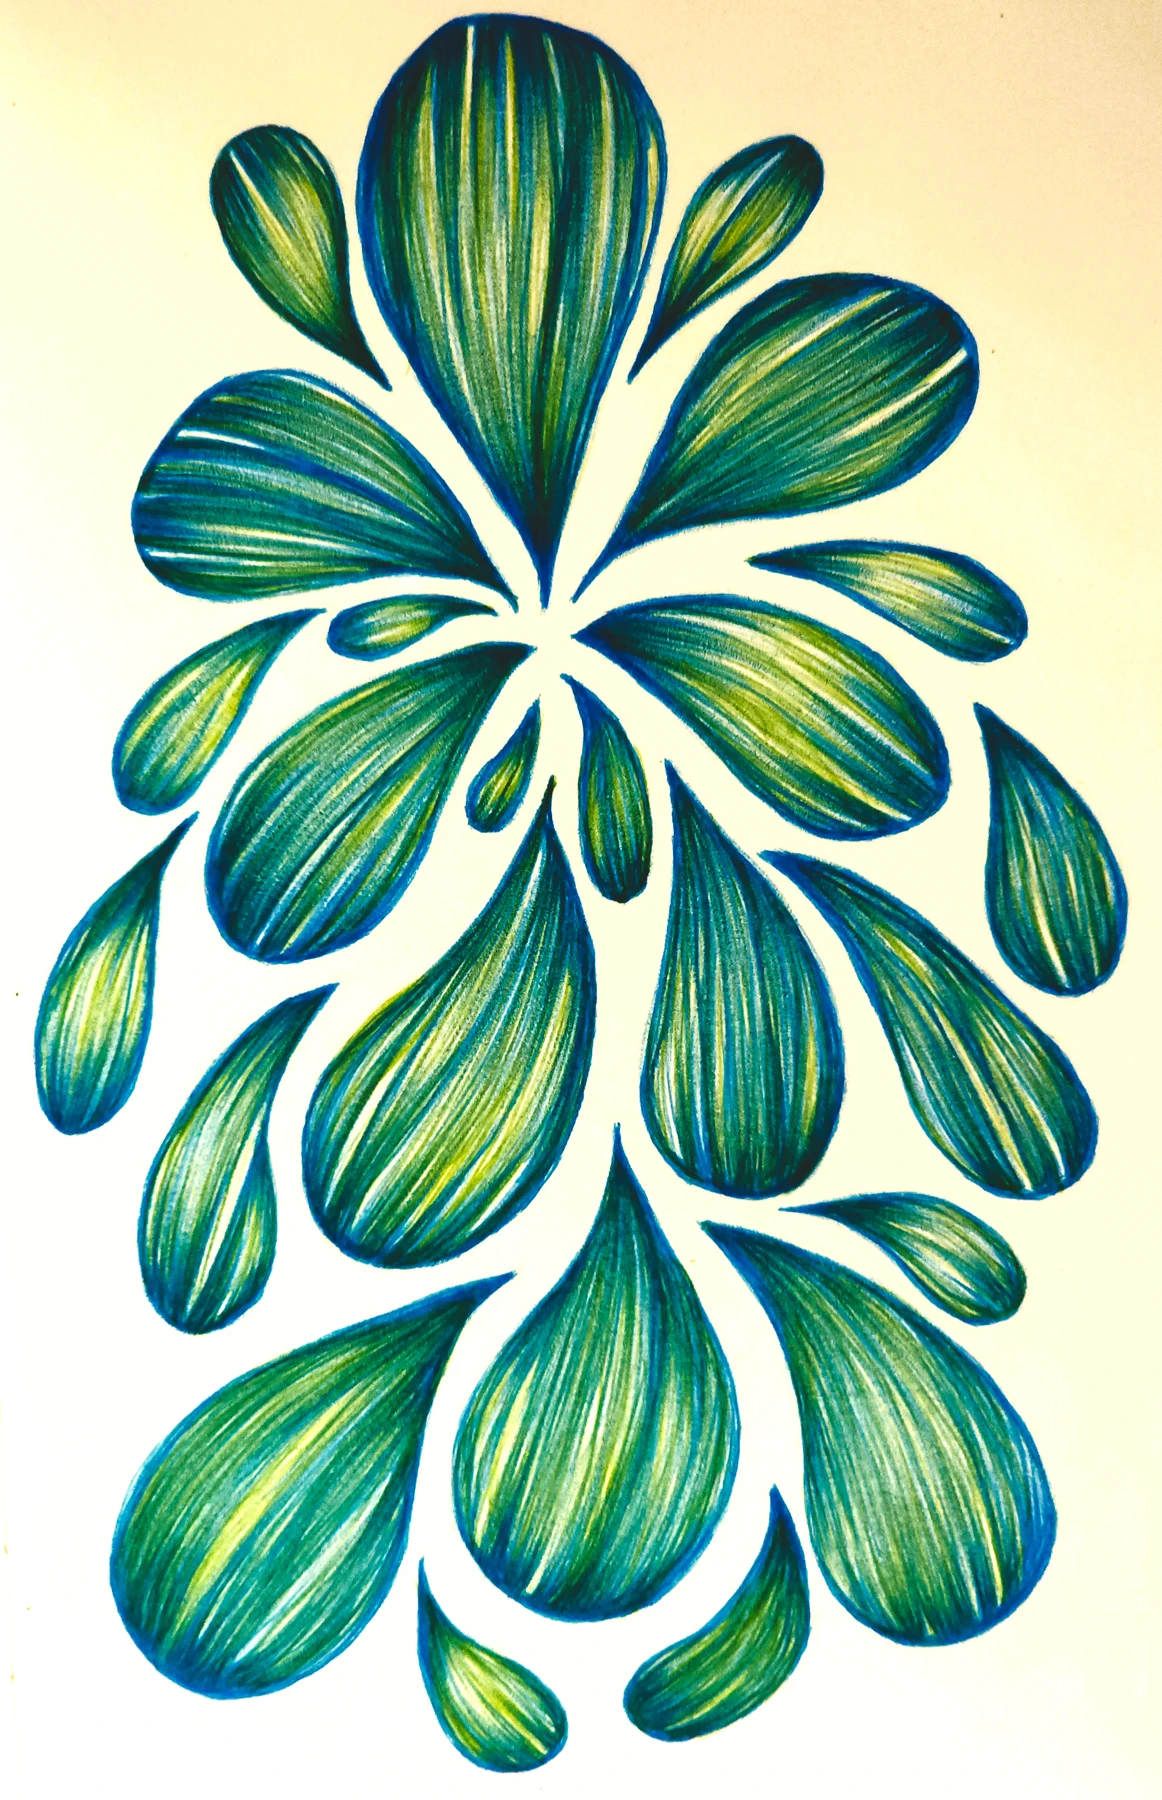
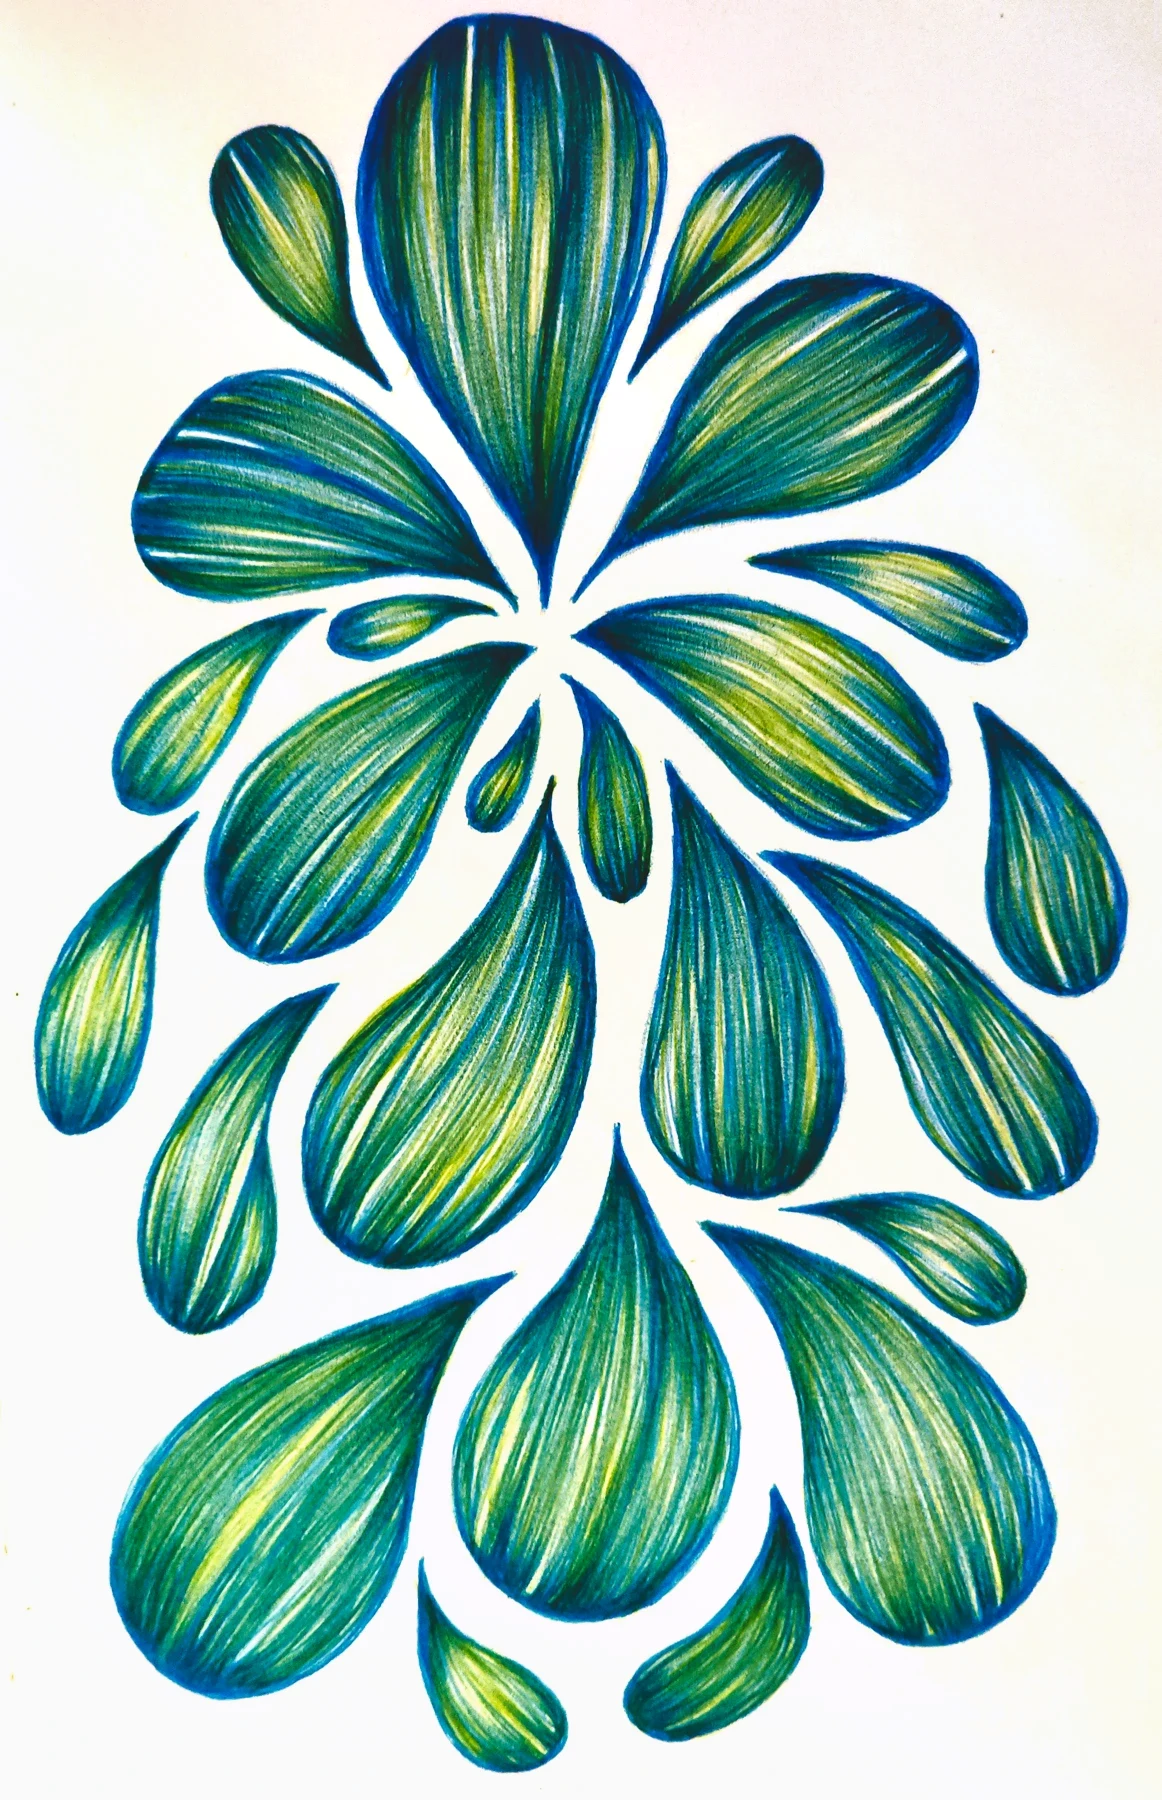
Even out Sprinkle photo background; remove 'by Sherrina Hansen' from visible copy
Claude-Session: https://claude.ai/code/session_01GmempgMtohCYJhWTbLYbaz

Changed region(s): [[0.0, 0.0, 1.0, 0.56], [0.7435, 0.4667, 0.7745, 0.4978]]

diff --git a/paintings.html b/paintings.html
@@ -19,7 +19,7 @@
 
       <ul class="site-nav__links" id="nav-links"><li><a href="index.html">Home</a></li><li><a href="art.html">Art</a></li><li><a href="books.html">Books</a></li><li><a href="my-story.html">My Story</a></li><li><a href="https://sherrinahansen.substack.com" target="_blank" rel="noopener">Subscribe</a></li><li><a href="chat.html">Contact</a></li></ul>
     </div>
-  </nav><main><header class="gallery-header"><a class="back-link" href="art.html">← All art</a><h1>Original Paintings</h1><p>Color, movement, and texture. A collection of paintings and textured work by Sherrina Hansen.</p></header><section class="gallery-wrap" aria-label="Original Paintings"><div class="works-grid"><figure class="work-card"><a href="images/art/paintings-still-i-rise-cropped.svg" class="art-open" aria-label="View Still, I Rise larger"><img src="images/art/paintings-still-i-rise-cropped.svg" width="409" height="527" alt="Still, I Rise by Sherrina Hansen" loading="lazy"></a><figcaption><h3>Still, I Rise</h3><p>Original painting · 11 × 14 in.</p></figcaption></figure><figure class="work-card"><a href="images/art/paintings-orange-flowers.webp" class="art-open" aria-label="View Orange Flowers larger"><img src="images/art/paintings-orange-flowers.webp" width="1800" height="1392" alt="Orange Flowers by Sherrina Hansen" loading="lazy"></a><figcaption><h3>Orange Flowers</h3><p>Original painting</p></figcaption></figure><figure class="work-card"><a href="images/art/paintings-heart-cropped.svg" class="art-open" aria-label="View Heart larger"><img src="images/art/paintings-heart-cropped.svg" width="1342" height="1800" alt="Heart by Sherrina Hansen" loading="lazy"></a><figcaption><h3>Heart</h3><p>Original painting · 12 × 16 in.</p></figcaption></figure><figure class="work-card"><a href="images/art/paintings-teal-flow.jpg" class="art-open" aria-label="View Teal Flow larger"><img src="images/art/paintings-teal-flow.jpg" width="226" height="453" alt="Teal Flow by Sherrina Hansen" loading="lazy"></a><figcaption><h3>Teal Flow</h3><p>Original painting</p></figcaption></figure><figure class="work-card"><a href="images/art/paintings-warm-gradient-cropped.svg" class="art-open" aria-label="View Warm Gradient larger"><img src="images/art/paintings-warm-gradient-cropped.svg" width="663" height="883" alt="Warm Gradient by Sherrina Hansen" loading="lazy"></a><figcaption><h3>Warm Gradient</h3><p>Original painting</p></figcaption></figure><figure class="work-card"><a href="images/art/paintings-sunflowers-cropped.svg" class="art-open" aria-label="View Sunflowers larger"><img src="images/art/paintings-sunflowers-cropped.svg" width="1234" height="1790" alt="Sunflowers by Sherrina Hansen" loading="lazy"></a><figcaption><h3>Sunflowers</h3><p>Original painting</p></figcaption></figure><figure class="work-card"><a href="images/art/paintings-wave-cropped.svg" class="art-open" aria-label="View Wave larger"><img src="images/art/paintings-wave-cropped.svg" width="1790" height="1321" alt="Wave by Sherrina Hansen" loading="lazy"></a><figcaption><h3>Wave</h3><p>Original painting</p></figcaption></figure><figure class="work-card"><a href="images/art/paintings-seashell.webp" class="art-open" aria-label="View Seashell larger"><img src="images/art/paintings-seashell.webp" width="1800" height="1330" alt="Seashell by Sherrina Hansen" loading="lazy"></a><figcaption><h3>Seashell</h3><p>Original textured work</p></figcaption></figure></div></section><section class="gallery-contact"><h2>Something speaking to you?</h2><p>Get in touch with Sherrina about an original.</p><a class="btn btn--teal" href="chat.html">Ask about a piece</a></section></main><footer class="site-footer">
+  </nav><main><header class="gallery-header"><a class="back-link" href="art.html">← All art</a><h1>Original Paintings</h1><p>Color, movement, and texture. A collection of paintings and textured work.</p></header><section class="gallery-wrap" aria-label="Original Paintings"><div class="works-grid"><figure class="work-card"><a href="images/art/paintings-still-i-rise-cropped.svg" class="art-open" aria-label="View Still, I Rise larger"><img src="images/art/paintings-still-i-rise-cropped.svg" width="409" height="527" alt="Still, I Rise by Sherrina Hansen" loading="lazy"></a><figcaption><h3>Still, I Rise</h3><p>Original painting · 11 × 14 in.</p></figcaption></figure><figure class="work-card"><a href="images/art/paintings-orange-flowers.webp" class="art-open" aria-label="View Orange Flowers larger"><img src="images/art/paintings-orange-flowers.webp" width="1800" height="1392" alt="Orange Flowers by Sherrina Hansen" loading="lazy"></a><figcaption><h3>Orange Flowers</h3><p>Original painting</p></figcaption></figure><figure class="work-card"><a href="images/art/paintings-heart-cropped.svg" class="art-open" aria-label="View Heart larger"><img src="images/art/paintings-heart-cropped.svg" width="1342" height="1800" alt="Heart by Sherrina Hansen" loading="lazy"></a><figcaption><h3>Heart</h3><p>Original painting · 12 × 16 in.</p></figcaption></figure><figure class="work-card"><a href="images/art/paintings-teal-flow.jpg" class="art-open" aria-label="View Teal Flow larger"><img src="images/art/paintings-teal-flow.jpg" width="226" height="453" alt="Teal Flow by Sherrina Hansen" loading="lazy"></a><figcaption><h3>Teal Flow</h3><p>Original painting</p></figcaption></figure><figure class="work-card"><a href="images/art/paintings-warm-gradient-cropped.svg" class="art-open" aria-label="View Warm Gradient larger"><img src="images/art/paintings-warm-gradient-cropped.svg" width="663" height="883" alt="Warm Gradient by Sherrina Hansen" loading="lazy"></a><figcaption><h3>Warm Gradient</h3><p>Original painting</p></figcaption></figure><figure class="work-card"><a href="images/art/paintings-sunflowers-cropped.svg" class="art-open" aria-label="View Sunflowers larger"><img src="images/art/paintings-sunflowers-cropped.svg" width="1234" height="1790" alt="Sunflowers by Sherrina Hansen" loading="lazy"></a><figcaption><h3>Sunflowers</h3><p>Original painting</p></figcaption></figure><figure class="work-card"><a href="images/art/paintings-wave-cropped.svg" class="art-open" aria-label="View Wave larger"><img src="images/art/paintings-wave-cropped.svg" width="1790" height="1321" alt="Wave by Sherrina Hansen" loading="lazy"></a><figcaption><h3>Wave</h3><p>Original painting</p></figcaption></figure><figure class="work-card"><a href="images/art/paintings-seashell.webp" class="art-open" aria-label="View Seashell larger"><img src="images/art/paintings-seashell.webp" width="1800" height="1330" alt="Seashell by Sherrina Hansen" loading="lazy"></a><figcaption><h3>Seashell</h3><p>Original textured work</p></figcaption></figure></div></section><section class="gallery-contact"><h2>Something speaking to you?</h2><p>Get in touch with Sherrina about an original.</p><a class="btn btn--teal" href="chat.html">Ask about a piece</a></section></main><footer class="site-footer">
     <div class="container">
       <div class="footer-inner">
         <div class="footer-brand">

diff --git a/books.html b/books.html
@@ -24,7 +24,7 @@
 <p class="book-hub__intro">I write in a few different directions. You'll find fantasy, children's stories, activity and coloring books, and practical help for people who teach adults. Start with the shelf that fits what you're looking for.</p>
 <div class="jump-links"><a href="#fantasy">Fantasy</a><a href="#nanas-joy">Nana's Joy</a><a href="#wonder-egg">Wonder Egg</a><a href="#trace-to-color">Trace to Color</a><a href="#coloring">Coloring Books</a><a href="#faith-journal">I AM Journal</a><a href="#adult-learning">Adult Learning</a></div>
 
-<section class="book-family" id="fantasy"><p class="family-note">Adult fantasy</p><h2><a href="solace.html">Fantasy by Sherrina Hansen</a></h2><p class="book-family__lead"><em>Solace</em> is a fantasy novel about Mirina, a desperate daughter searching for a place she believes can save her father.</p><div class="title-list"><article class="title-tile"><img class="title-tile__cover" src="images/covers/solace-cover.webp" alt="Solace by Sherrina Hansen" loading="lazy"><h3><a href="solace.html">Solace</a></h3><p>A devastating diagnosis. A desperate daughter. An unexpected calling.</p><a href="https://www.amazon.com/dp/B0H3L4T4KN" class="btn btn--red" target="_blank" rel="noopener">Find Solace on Amazon</a></article></div></section>
+<section class="book-family" id="fantasy"><p class="family-note">Adult fantasy</p><h2><a href="solace.html">Fantasy</a></h2><p class="book-family__lead"><em>Solace</em> is a fantasy novel about Mirina, a desperate daughter searching for a place she believes can save her father.</p><div class="title-list"><article class="title-tile"><img class="title-tile__cover" src="images/covers/solace-cover.webp" alt="Solace by Sherrina Hansen" loading="lazy"><h3><a href="solace.html">Solace</a></h3><p>A devastating diagnosis. A desperate daughter. An unexpected calling.</p><a href="https://www.amazon.com/dp/B0H3L4T4KN" class="btn btn--red" target="_blank" rel="noopener">Find Solace on Amazon</a></article></div></section>
 
 <section class="book-family" id="nanas-joy"><p class="family-note">Children's stories</p><h2><a href="nanas-joy.html">Nana's Joy Series</a></h2><p class="book-family__lead">Stories about family, faith, character, and the lessons kids are learning along the way. <a href="nanas-joy.html">Explore the series →</a></p><div class="title-list"><article class="title-tile"><img class="title-tile__cover" src="images/covers/leona-learns-love.webp" alt="Leona Learns Love book cover" loading="lazy"><h3>Leona Learns Love</h3><p>Nana's Joy Series · Book One.</p><a href="https://www.amazon.com/dp/B0GZKSTH7L" target="_blank" rel="noopener">Find it on Amazon →</a></article><article class="title-tile"><img class="title-tile__cover" src="images/covers/damiens-daring-discovery.webp" alt="Damien's Daring Discovery book cover" loading="lazy"><h3>Damien's Daring Discovery</h3><p>Nana's Joy Series · Book Two.</p><a href="https://www.amazon.com/dp/B0H6PW889Q" target="_blank" rel="noopener">Find it on Amazon →</a></article><article class="title-tile"><img class="title-tile__cover" src="images/covers/aaliyahs-attitude-adjustment.webp" alt="Aaliyah's Attitude Adjustment book cover" loading="lazy"><h3>Aaliyah's Attitude Adjustment</h3><p>Nana's Joy Series · Book Three.</p><a href="https://www.amazon.com/dp/B0HBBYKKL4" target="_blank" rel="noopener">Find it on Amazon →</a></article><article class="title-tile"><img class="title-tile__cover" src="images/covers/sophia-starts-sharing.webp" alt="Sophia Starts Sharing book cover" loading="lazy"><h3>Sophia Starts Sharing</h3><p>Nana's Joy Series · Book Four.</p><a href="https://www.amazon.com/dp/B0HCZKVCXN" target="_blank" rel="noopener">Find it on Amazon →</a></article><article class="title-tile"><img class="title-tile__cover" src="images/covers/kayden-keeps-kindness.webp" alt="Kayden Keeps Kindness book cover" loading="lazy"><h3>Kayden Keeps Kindness</h3><p>Nana's Joy Series · Book Five.</p><a href="https://www.amazon.com/dp/B0HNN8L478" target="_blank" rel="noopener">Find it on Amazon →</a></article></div></section>
 
